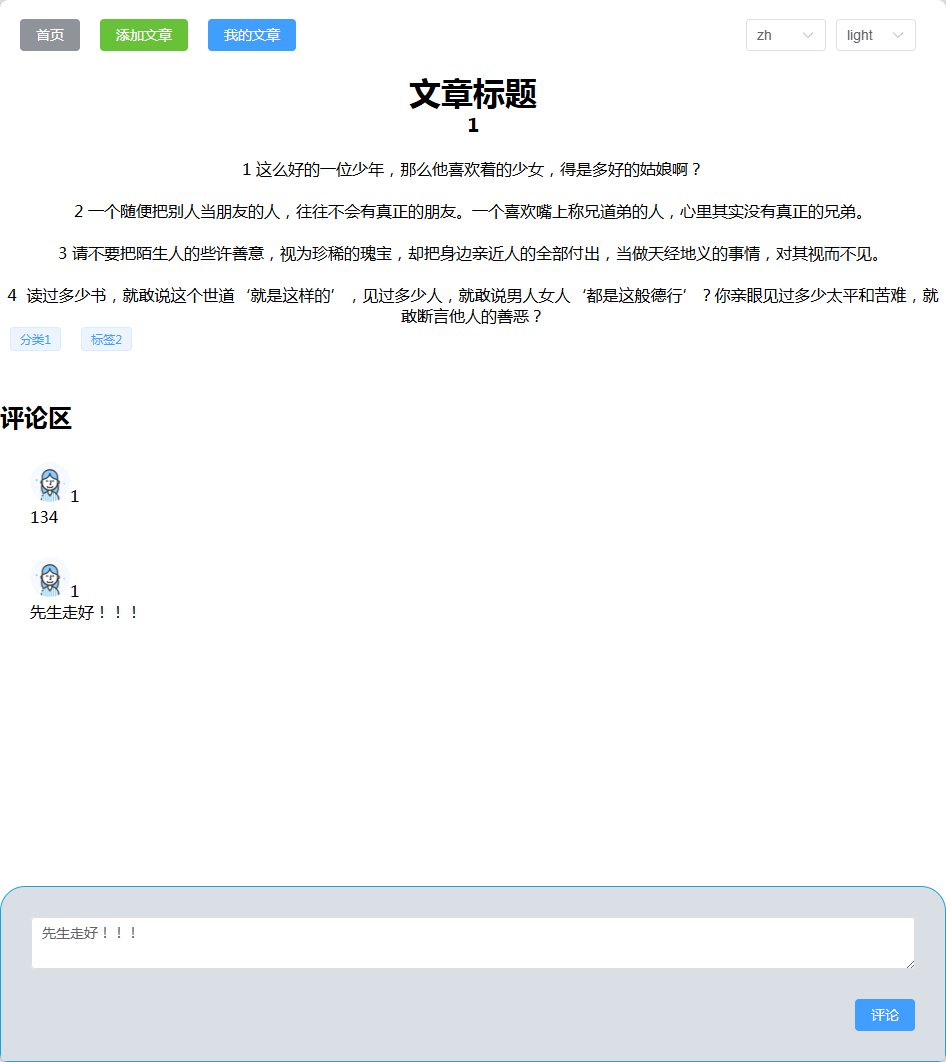
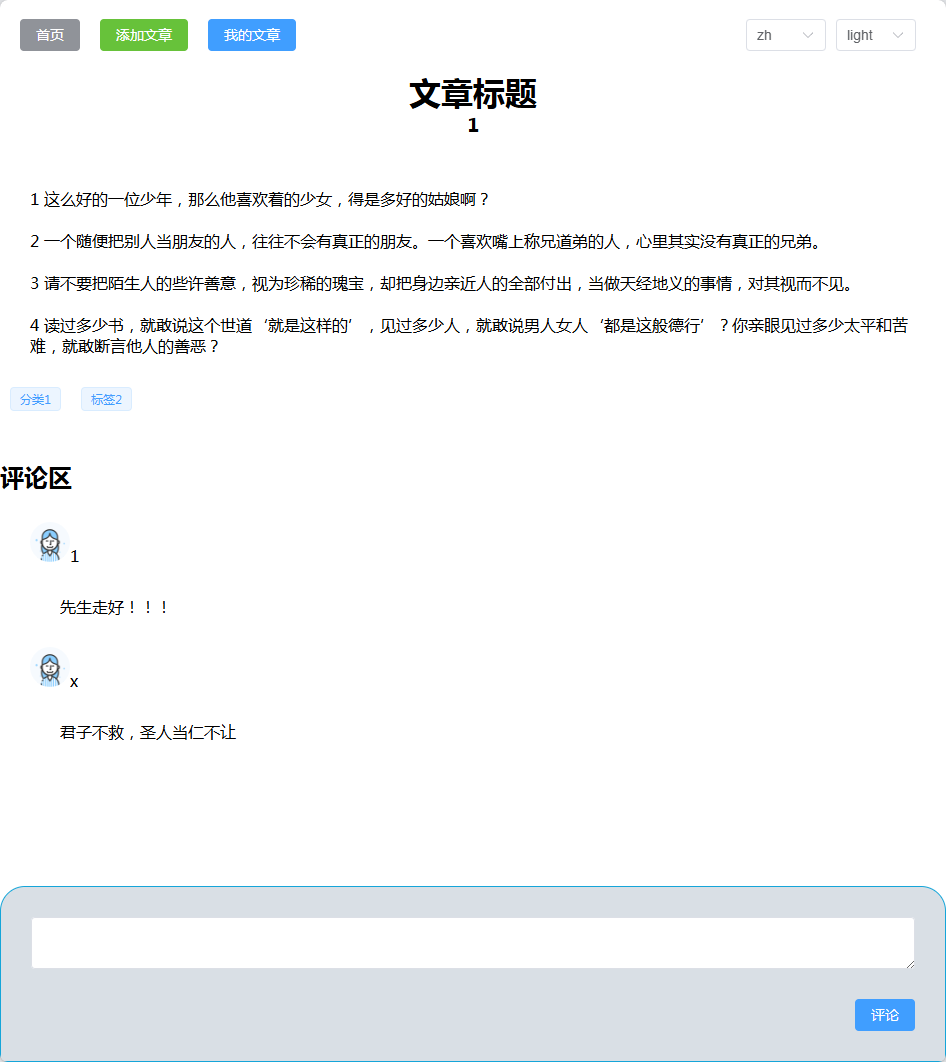
1

diff --git a/vue3/src/style.css b/vue3/src/style.css
@@ -17,8 +17,11 @@ ul li {
   list-style: none;
 }
 p {
-  white-space: break-spaces
+  margin: 30px;
+  text-align: left;
+  white-space: pre-line;
 }
+
 
 /* 水平垂直居中 */
 .content {
